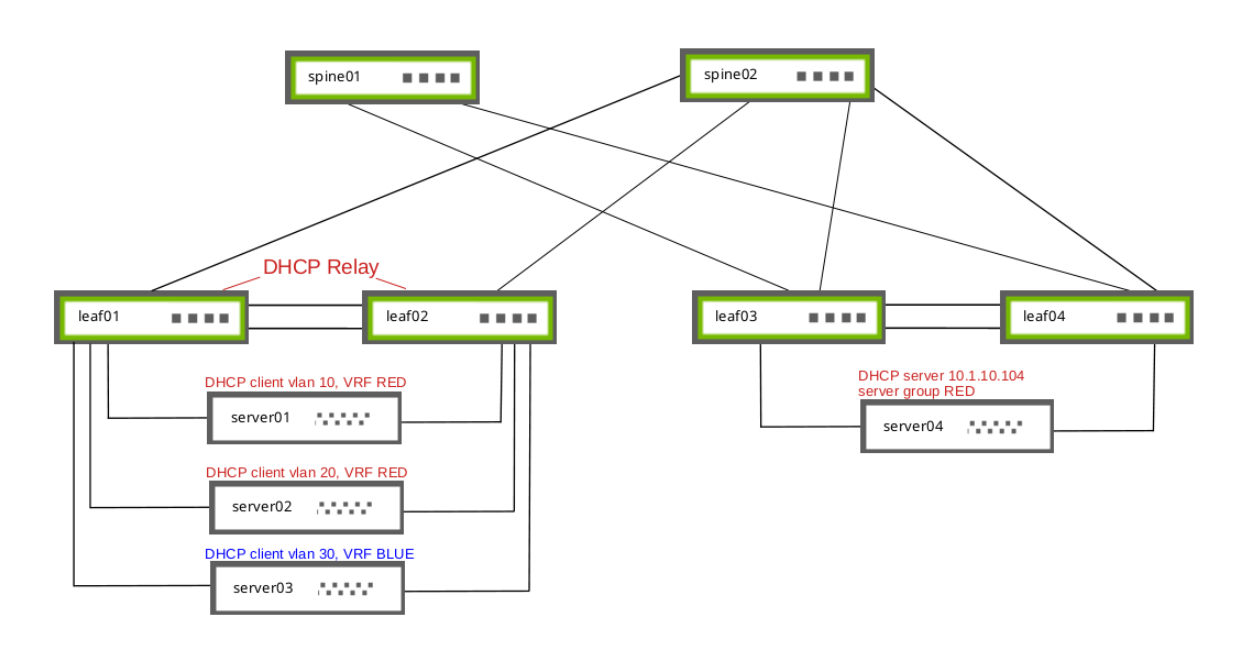
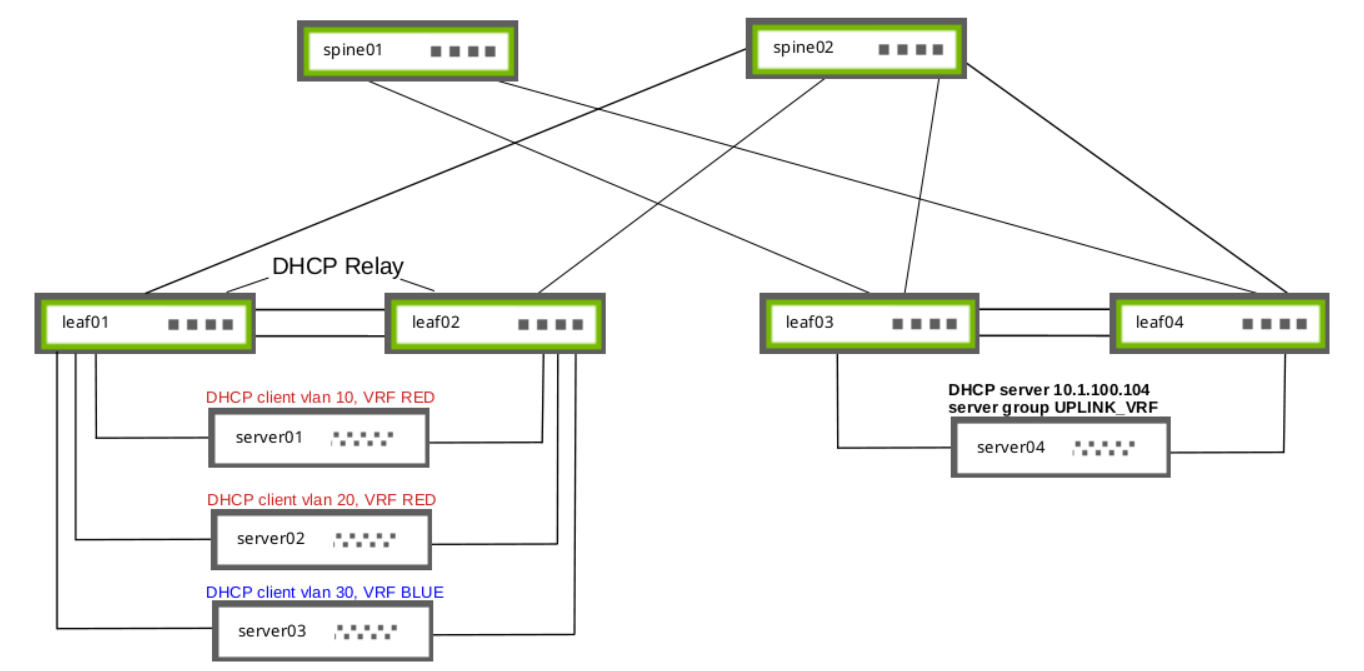
CL515 - DHCP multitenancy overhaul review feedback, change to new DHCP VRF

Changed region(s): [[0.0, 0.0, 1.0, 0.9892], [0.4375, 0.2782, 0.5938, 0.4019]]

diff --git a/content/cumulus-linux-515/Layer-1-and-Switch-Ports/DHCP/DHCP-Relays.md b/content/cumulus-linux-515/Layer-1-and-Switch-Ports/DHCP/DHCP-Relays.md
@@ -264,11 +264,11 @@ In a multi-tenant EVPN symmetric routing environment with MLAG, you must enable 
 {{< img src = "/images/cumulus-linux/dhcp-relay-server-groups-cl515.png" width = "1050" >}}
 
 The following example:
-- Configures VRF RED with IPv4 address 20.20.20.1/32.
-- Configures the SVIs vlan10 and vlan20, and the layer 3 VNI VLAN interface for VRF RED vlan4024_l3 to be part of the interface list to service DHCP packets. To obtain the layer 3 VNI VLAN interface, run the `nv show vrf <vrf-id> evpn` command.
-- Configures the SVI vlan30, which is located in VRF BLUE to be part of the downstream interface list.
-- Sets the DHCP server to 10.1.10.104.
-- Configures VRF RED to advertise connected routes as type-5 so that the VRF RED loopback IPv4 address is reachable.
+- Configures VRF `UPLINK_VRF` with IPv4 address 20.20.20.1/32 and sets the VRF loopback as the gateway interface.
+- Configures the tenant SVIs vlan10, vlan20, and vlan30 as downstream interfaces.
+- Configures the layer 3 VNI VLAN interface for VRF `UPLINK_VRF` vlan4024_l3 as an upstream interface. To obtain the layer 3 VNI VLAN interface, run the `nv show vrf <vrf-id> evpn` command.
+- Sets the DHCP server to 10.1.100.104.
+- Configures VRF UPLINK_VRF to advertise connected routes as type-5 so that the VRF UPLINK_VRF loopback IPv4 address is reachable.
 
 {{%notice note%}}
 You do not need to add physical uplinks in the EVPN relay configuration. Only layer 3 VNI VLAN interface configuration is required for uplinks.
@@ -278,38 +278,39 @@ You do not need to add physical uplinks in the EVPN relay configuration. Only la
 {{< tab "NVUE Commands ">}}
 
 ```
-cumulus@switch:~$ nv set vrf RED loopback ip address 20.20.20.1/32
-cumulus@switch:~$ nv set service dhcp-relay RED downstream-interface vlan10 server-group-name red-servers
-cumulus@switch:~$ nv set service dhcp-relay RED downstream-interface vlan20 server-group-name red-servers
-cumulus@switch:~$ nv set service dhcp-relay RED downstream-interface vlan30 server-group-name red-servers
-cumulus@switch:~$ nv set service dhcp-relay RED server-group red-servers upstream-interface vlan4024_l3
-cumulus@switch:~$ nv set service dhcp-relay RED server-group red-servers server 10.1.10.104
-cumulus@switch:~$ nv set vrf RED router bgp address-family ipv4-unicast redistribute connected state enabled
-cumulus@switch:~$ nv set vrf RED router bgp address-family ipv4-unicast route-export to-evpn state enabled
+cumulus@switch:~$ nv set vrf UPLINK_VRF loopback ip address 20.20.20.1/32
+cumulus@switch:~$ nv set service dhcp-relay UPLINK_VRF gateway-interface UPLINK_VRF
+cumulus@switch:~$ nv set service dhcp-relay UPLINK_VRF downstream-interface vlan10 server-group-name uplink-servers
+cumulus@switch:~$ nv set service dhcp-relay UPLINK_VRF downstream-interface vlan20 server-group-name uplink-servers
+cumulus@switch:~$ nv set service dhcp-relay UPLINK_VRF downstream-interface vlan30 server-group-name uplink-servers
+cumulus@switch:~$ nv set service dhcp-relay UPLINK_VRF server-group uplink-servers upstream-interface vlan4024_l3
+cumulus@switch:~$ nv set service dhcp-relay UPLINK_VRF server-group uplink-servers server 10.1.100.104
+cumulus@switch:~$ nv set vrf UPLINK_VRF router bgp address-family ipv4-unicast redistribute connected state enabled
+cumulus@switch:~$ nv set vrf UPLINK_VRF router bgp address-family ipv4-unicast route-export to-evpn state enabled
 cumulus@switch:~$ nv config apply
 ```
 
 {{< /tab >}}
 {{< tab "Linux Commands ">}}
 
-1. Edit the `/etc/network/interfaces` file to configure VRF RED with IPv4 address 20.20.20.1/32
+1. Edit the `/etc/network/interfaces` file to configure VRF UPLINK_VRF with IPv4 address 20.20.20.1/32
 
    ```
    cumulus@leaf01:mgmt:~$ sudo nano /etc/network/interfaces
    ...
-   auto RED
-   iface RED
+   auto UPLINK_VRF
+   iface UPLINK_VRF
            address 20.20.20.1/32
            vrf-table auto
    ```
 
-2. Configure VRF RED to advertise the connected routes as type-5 so that the loopback IPv4 address is reachable:
+2. Configure VRF `UPLINK_VRF` to advertise the connected routes as type-5 so that the loopback IPv4 address is reachable:
 
    ```
    cumulus@leaf01:mgmt:~$ sudo vtysh 
    ...
    leaf01# configure terminal
-   leaf01(config)# router bgp 65101 vrf RED
+   leaf01(config)# router bgp 65101 vrf UPLINK_VRF
    leaf01(config-router)# address-family l2vpn evpn
    leaf01(config-router-af)# advertise ipv4 unicast 
    leaf01(config-router-af)# end
@@ -320,8 +321,8 @@ cumulus@switch:~$ nv config apply
 
    ```
    ...
-   router bgp 65101 vrf RED
-    bgp router-id 10.10.10.1
+   router bgp 65101 vrf UPLINK_VRF
+    bgp router-id 20.20.20.1
    ..
     !
     address-family ipv4 unicast
@@ -339,17 +340,17 @@ cumulus@switch:~$ nv config apply
 3. Edit the `/etc/default//etc/default/isc-dhcp-relay-<server-group-id>-<vrf-id>` file.
 
    ```
-   cumulus@leaf01:mgmt:~$ sudo nano /etc/default/isc-dhcp-relay-red-servers-RED
-   SERVERS="10.1.10.104"
-   INTF_CMD=" -i vlan10 -i vlan20 -i vlan4024_l3" 
-   OPTIONS="-U RED"
+   cumulus@leaf01:mgmt:~$ sudo nano /etc/default/isc-dhcp-relay-uplink-servers-UPLINK_VRF
+   SERVERS="10.1.100.104"
+   INTF_CMD=" -i vlan10 -i vlan20 -i vlan30 -i vlan4024_l3" 
+   OPTIONS="-U UPLINK_VRF"
    ```
 
 4. Enable and start the DHCP service:
 
    ```
-   sudo systemctl enable dhcrelay-red-servers-RED.service
-   sudo systemctl start dhcrelay-red-servers-RED.service
+   sudo systemctl enable dhcrelay-uplink-servers-UPLINK_VRF.service
+   sudo systemctl start dhcrelay-uplink-servers-UPLINK_VRF.service
    ```
 
 {{< /tab >}}
@@ -360,9 +361,9 @@ cumulus@switch:~$ nv config apply
 In a multi-tenant EVPN symmetric routing environment without MLAG, the VLAN interface (SVI) IPv4 address is typically unique on each leaf switch, which does not require RFC 3527 configuration.
 
 The following example:
-- Configures the SVIs vlan10 and vlan20, and the layer 3 VNI VLAN interface for VRF RED vlan4024_l3 to be part of INTF_CMD list to service DHCP packets. To obtain the layer 3 VNI VLAN interface, run the `nv show vrf <vrf-id> evpn` command.
-- Configures the SVI vlan30, which is located in VRF BLUE to be part of the downstream interface list.
-- Sets the DHCP server IP address to 10.1.10.104.
+- Configures the tenant SVIs vlan10, vlan20, and vlan30 as downstream interfaces.
+- Configures the layer 3 VNI VLAN interface for VRF `UPLINK_VRF` vlan4024_l3 as an upstream interface. To obtain the layer 3 VNI VLAN interface, run the `nv show vrf <vrf-id> evpn` command.
+- Sets the DHCP server IP address to 10.1.100.104.
 
 {{%notice note%}}
 You do not need to add physical uplinks in the EVPN relay configuration. Only layer 3 VNI VLAN interface configuration is required for uplinks.
@@ -372,11 +373,11 @@ You do not need to add physical uplinks in the EVPN relay configuration. Only la
 {{< tab "NVUE Commands ">}}
 
 ```
-cumulus@switch:~$ nv set service dhcp-relay RED downstream-interface vlan10 server-group-name red-servers
-cumulus@switch:~$ nv set service dhcp-relay RED downstream-interface vlan20 server-group-name red-servers
-cumulus@switch:~$ nv set service dhcp-relay RED downstream-interface vlan30 server-group-name red-servers
-cumulus@switch:~$ nv set service dhcp-relay RED server-group red-servers upstream-interface vlan4024_l3
-cumulus@switch:~$ nv set service dhcp-relay RED server-group red-servers server 10.1.10.104
+cumulus@switch:~$ nv set service dhcp-relay UPLINK_VRF downstream-interface vlan10 server-group-name uplink-servers
+cumulus@switch:~$ nv set service dhcp-relay UPLINK_VRF downstream-interface vlan20 server-group-name uplink-servers
+cumulus@switch:~$ nv set service dhcp-relay UPLINK_VRF downstream-interface vlan30 server-group-name uplink-servers
+cumulus@switch:~$ nv set service dhcp-relay UPLINK_VRF server-group uplink-servers upstream-interface vlan4024_l3
+cumulus@switch:~$ nv set service dhcp-relay UPLINK_VRF server-group uplink-servers server 10.1.100.104
 cumulus@switch:~$ nv config apply
 ```
 
@@ -386,8 +387,8 @@ cumulus@switch:~$ nv config apply
 1. Edit the `/etc/default//etc/default/isc-dhcp-relay-<server-group-id>-<vrf-id>` file.
 
    ```
-   cumulus@leaf01:mgmt:~$ sudo nano /etc/default/isc-dhcp-relay-red-servers-RED
-   SERVERS="10.1.10.104"
+   cumulus@leaf01:mgmt:~$ sudo nano /etc/default/isc-dhcp-relay-uplink-servers-UPLINK_VRF
+   SERVERS="10.1.100.104"
    INTF_CMD=" -i vlan10 -i vlan20 -i vlan4024_l3" 
    OPTIONS=""
    ```
@@ -395,8 +396,8 @@ cumulus@switch:~$ nv config apply
 2. Enable and start the DHCP service:
 
    ```
-   sudo systemctl enable dhcrelay-red-servers-RED.service
-   sudo systemctl start dhcrelay-red-servers-RED.service
+   sudo systemctl enable dhcrelay-red-servers-UPLINK_VRF.service
+   sudo systemctl start dhcrelay-red-servers-UPLINK_VRF.service
    ```
 
 {{< /tab >}}
@@ -411,46 +412,46 @@ For IPv6 DHCP relay in a symmetric routing environment, you must assign a unique
 {{%/notice%}}
 
 The following example:
-- Configures VRF RED with the unique IPv6 address 2001:db8:666::1/128.
+- Configures VRF UPLINK_VRF with the unique IPv6 address 2001:db8:666::1/128.
 - Configures VLAN 10 and 20 in VRF RED to service DHCP requests from downstream hosts.
 - Sets the DHCP server to 2001:db8:199::2.
-- Configures the layer 3 VNI interface for VRF RED vlan4024_l3 to process DHCP packets from the upstream server.
-- Configures VRF RED to advertise the connected routes so that the loopback IPv6 address is reachable.
+- Configures the layer 3 VNI interface for VRF UPLINK_VRF vlan4024_l3 to process DHCP packets from the upstream server.
+- Configures VRF UPLINK_VRF to advertise the connected routes so that the loopback IPv6 address is reachable.
 
 {{< tabs "TabID367 ">}}
 {{< tab "NVUE Commands ">}}
 
 ```
-cumulus@switch:~$ nv set vrf RED loopback ip address 2001:db8:666::1/128
-cumulus@switch:~$ nv set service dhcp-relay6 RED interface downstream vlan10
-cumulus@switch:~$ nv set service dhcp-relay6 RED interface downstream vlan20
-cumulus@switch:~$ nv set service dhcp-relay6 RED interface upstream RED server-address 2001:db8:199::2
-cumulus@switch:~$ nv set service dhcp-relay6 RED interface upstream vlan4024_l3
-cumulus@switch:~$ nv set vrf RED router bgp address-family ipv6-unicast route-export to-evpn state enabled
+cumulus@switch:~$ nv set vrf UPLINK_VRF loopback ip address 2001:db8:666::1/128
+cumulus@switch:~$ nv set service dhcp-relay6 UPLINK_VRF interface downstream vlan10
+cumulus@switch:~$ nv set service dhcp-relay6 UPLINK_VRF interface downstream vlan20
+cumulus@switch:~$ nv set service dhcp-relay6 UPLINK_VRF interface upstream UPLINK_VRF server-address 2001:db8:199::2
+cumulus@switch:~$ nv set service dhcp-relay6 UPLINK_VRF interface upstream vlan4024_l3
+cumulus@switch:~$ nv set vrf UPLINK_VRF router bgp address-family ipv6-unicast route-export to-evpn state enabled
 cumulus@switch:~$ nv config apply
 ```
 
 {{< /tab >}}
 {{< tab "Linux Commands ">}}
 
-1. Edit the `/etc/network/interfaces` file to configure VRF RED with IPv6 address 2001:db8:666::1/128:
+1. Edit the `/etc/network/interfaces` file to configure VRF UPLINK_VRF with IPv6 address 2001:db8:666::1/128:
 
    ```
    cumulus@leaf01:mgmt:~$ sudo nano /etc/network/interfaces
    ...
-   auto RED
-   iface RED
+   auto UPLINK_VRF
+   iface UPLINK_VRF
            address 2001:db8:666::1/128
            vrf-table auto
    ```
 
-2. Configure VRF RED to advertise the connected routes so that the loopback IPv6 address is reachable:
+2. Configure VRF UPLINK_VRF to advertise the connected routes so that the loopback IPv6 address is reachable:
 
    ```
    cumulus@leaf01:mgmt:~$ sudo vtysh 
    ...
    leaf01# configure terminal
-   leaf01(config)# router bgp 65101 vrf RED
+   leaf01(config)# router bgp 65101 vrf UPLINK_VRF
    leaf01(config-router)# address-family l2vpn evpn
    leaf01(config-router-af)# advertise ipv6 unicast 
    leaf01(config-router-af)# end
@@ -461,7 +462,7 @@ cumulus@switch:~$ nv config apply
 
    ```
    ...
-   router bgp 65101 vrf RED
+   router bgp 65101 vrf UPLINK_VRF
     bgp router-id 10.10.10.1
    ..
     !
@@ -480,20 +481,20 @@ cumulus@switch:~$ nv config apply
 3. Edit the `/etc/default/isc-dhcp-relay6-<vrf-id>` file.
 
    - Set the `-l ` option to the VLANs that receive DHCP requests from hosts.
-   - Set the `<ip-address-dhcp-server>%<interface-facing-dhcp-server>` option to associate the DHCP Server with VRF RED.
+   - Set the `<ip-address-dhcp-server>%<interface-facing-dhcp-server>` option to associate the DHCP Server with VRF UPLINK_VRF.
    - Set the `-u` option to indicate where the switch receives replies from the DHCP server (SVI vlan4024_l3).
 
    ```
-   cumulus@leaf01:mgmt:~$ sudo nano /etc/default/isc-dhcp-relay6-RED
+   cumulus@leaf01:mgmt:~$ sudo nano /etc/default/isc-dhcp-relay6-UPLINK_VRF
    INTF_CMD="-l vlan10 -l vlan20"
-   SERVERS="-u 2001:db8:199::2%RED -u vlan4024_l3"
+   SERVERS="-u 2001:db8:199::2%UPLINK_VRF -u vlan4024_l3"
    ```
 
 4. Enable and start the DHCP service:
 
    ```
-   sudo systemctl enable dhcrelay6@RED.service
-   sudo systemctl start dhcrelay6@RED.service
+   sudo systemctl enable dhcrelay6@UPLINK_VRF.service
+   sudo systemctl start dhcrelay6@UPLINK_VRF.service
 
    ```
 
